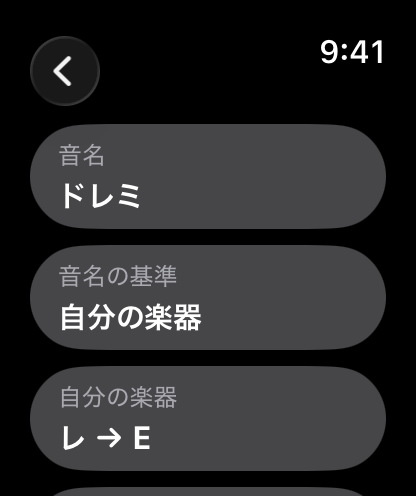
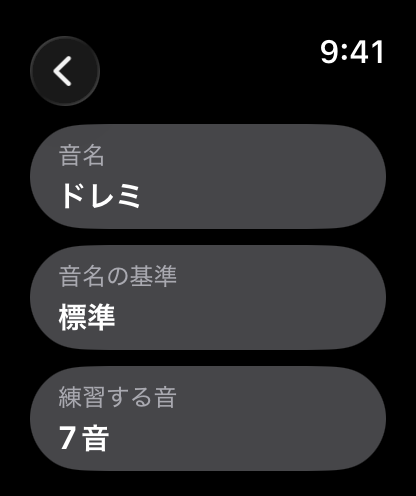
Per-language screenshot sets at 9:41, OCR-verified

Changed region(s): [[0.125, 0.9677, 0.875, 1.0], [0.125, 0.756, 0.4375, 0.9073], [0.125, 0.6048, 0.5, 0.6653]]

diff --git a/DoremiTeacher/DemoLaunch.swift b/DoremiTeacher/DemoLaunch.swift
@@ -33,8 +33,8 @@ enum DemoLaunch: String {
         #endif
     }
 
-    /// `DEMO_PROFILE=saz` starts with the Re-sounds-E instrument profile; `DEMO_PROFILE=twelve`
-    /// selects the twelve-note set with standard naming. In-memory only.
+    /// `DEMO_PROFILE=letters` uses A B C names; `saz` the Re-sounds-E instrument profile;
+    /// `twelve` the twelve-note set; `saz-twelve` both. In-memory only.
     @MainActor
     static func demoSettings() -> SettingsStore? {
         #if DEBUG
@@ -43,6 +43,8 @@ enum DemoLaunch: String {
         suite.removePersistentDomain(forName: "doremi.demo.settings")
         let store = SettingsStore(defaults: suite)
         switch profile {
+        case "letters":
+            store.settings.naming.style = .letters
         case "saz":
             store.settings.naming.relationship = .instrument(reference: .d, soundsLike: PitchClass(centsAboveC: 400))
         case "twelve":
